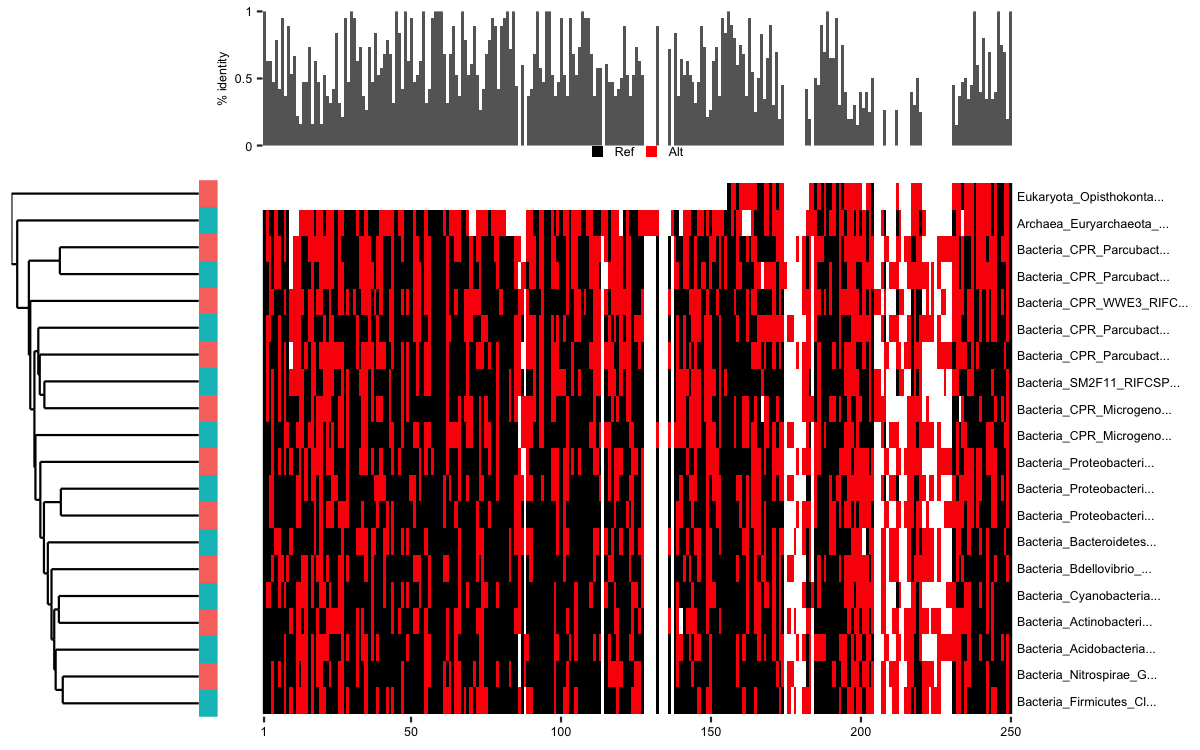
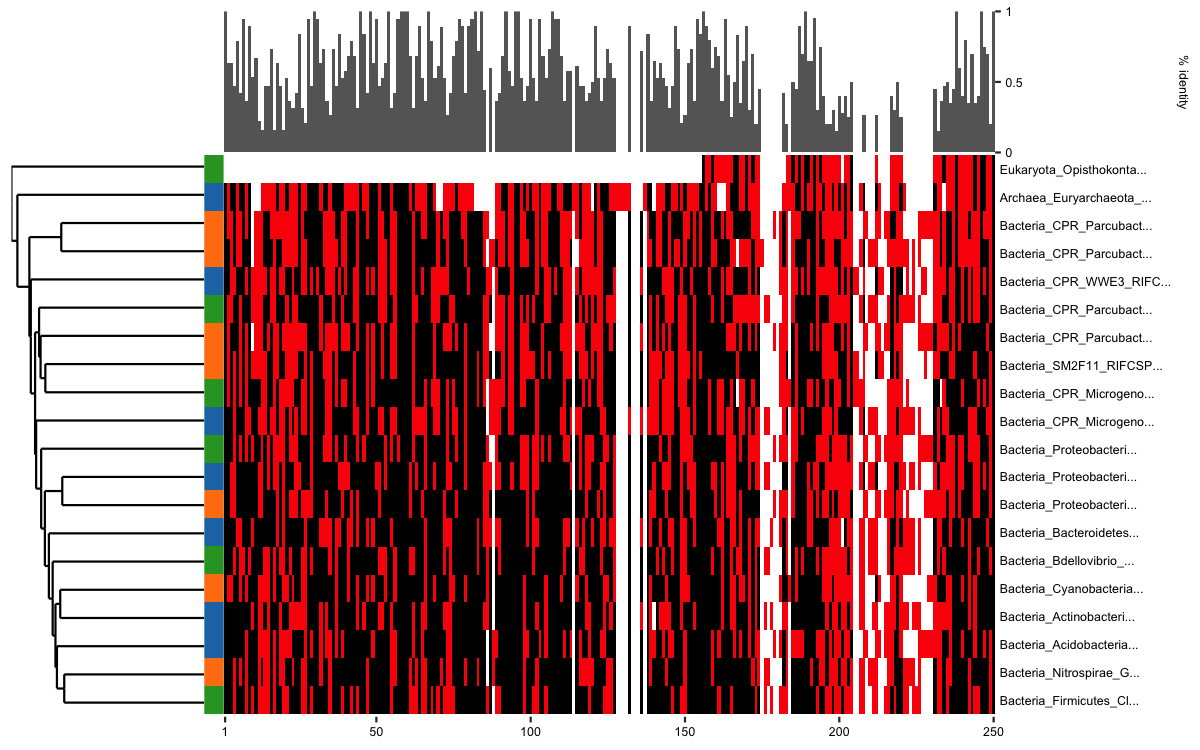
Match README composite plot to vignette showcase
The README's composite example was using a generic 2-group A/B split
and the default heatmap legend. Brought it in line with the vignette's
"Everything together" figure so the landing-page screenshot reflects
the polished composition users will recognize from `vignette("msaviz")`:

* 3 taxonomic groups (Bacteria / Archaea / Eukarya) with branded
  colours via `group.colours = group_cols`.
* Groups reordered by `attr(d, "order")` so each row's strip colour
  matches the dendrogram leaf at that y-position.
* `msaHeatmap(..., legend.pos = "none")` so the Ref/Alt legend doesn't
  wedge between the PID track and the heatmap.

diff --git a/README.md b/README.md
@@ -78,15 +78,20 @@ left-side group annotation strip — using `patchwork`:
 
 ``` r
 d <- msaDendro(aln)
-hm <- msaHeatmap(alnDF, row.order = attr(d, "order"))
-groups <- setNames(rep(c("Group A", "Group B"),
-                       length.out = length(attr(d, "order"))),
-                   attr(d, "order"))
+groups <- setNames(rep(c("Bacteria", "Archaea", "Eukarya"),
+                       length.out = length(aln$nam)),
+                   aln$nam)
+group_cols <- c(Bacteria = "#1f77b4", Archaea = "#ff7f0e",
+                Eukarya  = "#2ca02c")
 
-composeMSA(heatmap = hm,
-           top  = msaPID(alnDF),
-           left = d,
-           groups = groups)
+composeMSA(
+  heatmap = msaHeatmap(alnDF, row.order = attr(d, "order"),
+                       legend.pos = "none"),
+  top  = msaPID(alnDF),
+  left = d,
+  groups = groups[attr(d, "order")],
+  group.colours = group_cols
+)
 ```
 
 <img src="man/figures/README-compose-1.png" alt="" width="100%" />